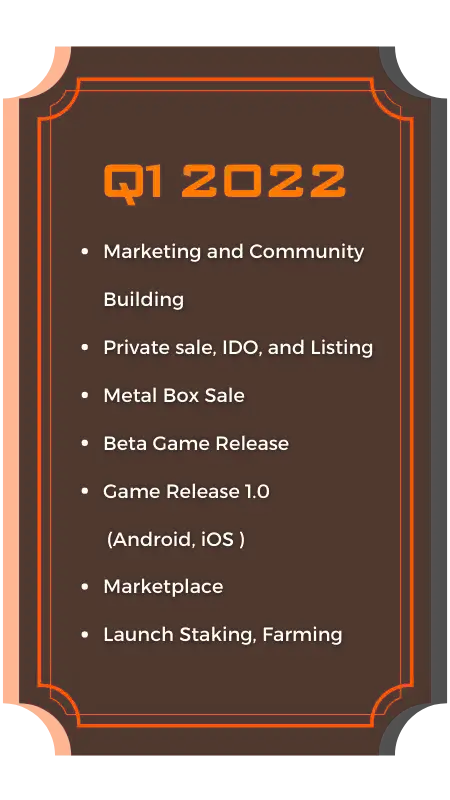
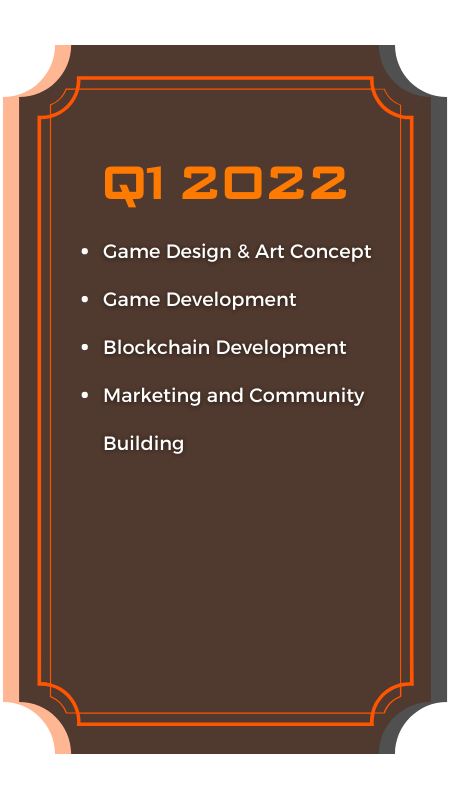
.

diff --git a/components/TEAM/index.js b/components/TEAM/index.js
@@ -37,37 +37,6 @@ function Advisors(){
                 </div>
                 <div className={style.AdvisorsWrapperTopItem} data-aos="zoom-in-up" data-aos-once="true" data-aos-delay="200">
                     <div className={style.AdvisorsWrapperTopItemTop}>
-                        <img src={urlImgHO} alt=""/>
-                    </div>
-                    <div className={style.AdvisorsWrapperTopItemBottom}>
-                        <div className={style.name}>
-                            <h5>Ho Le</h5>
-                        </div>
-                        <div className={style.position}>Chief Operating Officer</div>
-                        <div className={style.background}>
-                        Founder of Nuca Streaming Entertainment<br></br><br></br>
-                        Founder of Nuca<br></br><br></br>
-                        4+ years of experience in software engineering at top software companies in Vietnam: Sunshine Tech, Plustus Fintech, Transaction Technologies, Shopiness, SPLUS-SOFTWARE</div>
-                    </div>
-                </div>
-                <div className={style.AdvisorsWrapperTopItem} data-aos="zoom-in-up" data-aos-once="true" data-aos-delay="200">
-                    <div className={style.AdvisorsWrapperTopItemTop}>
-                        <img src={urlImgTAN} alt=""/>
-                    </div>
-                    <div className={style.AdvisorsWrapperTopItemBottom}>
-                        <div className={style.name}>
-                            <h5>Tony Pham</h5>
-                        </div>
-                        <div className={style.position}>Chief Technology Officer</div>
-                        <div className={style.background}>
-                        Chief Technology Officer of Nuca<br></br><br></br>
-                        Chief Technology Officer of Nuca Streaming Entertainment<br></br><br></br>
-                        3+ years experience as Full-stack Developer in Transaction Technologies for the stock market<br></br><br></br>
-                        2+ years experience as Blockchain Developer</div>
-                    </div>
-                </div>
-                <div className={style.AdvisorsWrapperTopItem} data-aos="zoom-in-up" data-aos-once="true" data-aos-delay="200">
-                    <div className={style.AdvisorsWrapperTopItemTop}>
                         <img src={urlImgDUONG} alt=""/>
                     </div>
                     <div className={style.AdvisorsWrapperTopItemBottom}>

diff --git a/components/tokenomics/index.js b/components/tokenomics/index.js
@@ -17,16 +17,19 @@ function Tokenomics(){
                         {/* <div className={style.tokenomicsWrapperContentTitle}>
                             TOKENOMICS <span>DISTRUBUTION</span>
                         </div> */}
-                        <p>Total Supply: <span>200,000,000 $MTG</span> </p>
+                        <p>Total Supply: <span>400,000,000 $MTG</span> </p>
                         <ul className={style.tokenomicsWrapperContentList}>
-                            <li><span>Private Round:</span><span>14%</span></li>
-                            <li><span>Public Round:</span><span>1%</span></li>
-                            <li><span>Team:</span><span>15%</span></li>
-                            <li><span>Advisors & Partners:</span><span>7%</span></li>
-                            <li><span>Liquidity:</span><span>10%</span></li>
-                            <li><span>Marketing:</span><span>14%</span></li>
-                            <li><span>Ecosystem:</span><span>39%</span></li>
-                            <li><p>(including Staking,Treasure)</p></li>
+                            <li><span>Private sale:</span><span>14%</span></li>
+                            <li><span>Public sale:</span><span>2%</span></li>
+                            <li><span>Treasury:</span><span>10%</span></li>
+                            <li><span>Play to earn:</span><span>28.5%</span></li>
+                            <li><span>Marketing & Ecosystem:</span><span>11%</span></li>
+                            <li><span>Team:</span><span>20%</span></li>
+                            <li><span>Advisors & Partners:</span><span>4%</span></li>
+                            <li><span>Liquidity:</span><span>5%</span></li>
+                            <li><span>Airdrop:</span><span>0.5%</span></li>
+                            <li><span>Reserve:</span><span>5%</span></li>
+                            {/* <li><p>(including Staking,Treasure)</p></li> */}
                             
                         </ul>
                         {/* <a href="#" className={clsx('btn btnPrimary',style.button)} target="_blank" rel="noopener noreferrer">Read More</a> */}

diff --git a/components/Technology/index.js b/components/Technology/index.js
@@ -1,0 +1,24 @@
+const logo1 = '/assets/chainlink.webp'
+const title = '/assets/TECH.webp'
+const binance = '/assets/binance-smart-chain.webp'
+const Unity = '/assets/Unity_Technologies.webp'
+import style from './Technology.module.scss'
+
+function Technology(){
+    return(
+    <section className={style.technologys} id='partners'>
+        <div className="container">
+            <div className={style.technologystitle}>
+                        <img src={title} alt=""/>
+            </div>
+            <div className={style.technologysWrapper} data-aos="flip-up" data-aos-once="true" data-aos-delay="300">
+                <img src={logo1} alt=""/>
+                <img src={binance} alt=""/>
+                <img src={Unity} alt=""/>
+             
+            </div>
+        </div>
+    </section>
+    )
+}
+export default Technology

diff --git a/components/Technology/Technology.module.scss b/components/Technology/Technology.module.scss
@@ -1,0 +1,38 @@
+
+.technologys {
+    & .container {
+        max-width: 1000px;
+    }
+    &title{
+        top: 80px;
+        width: 40%;
+        margin: auto;
+        margin-bottom: 4%;
+    }
+    &Wrapper {
+        display: flex;
+        flex-wrap: wrap;
+        justify-content: center;
+        margin-bottom: 100px;
+        align-items: center;
+        & * {
+            width: 25%;
+            margin: 20px calc(25% / 6);
+        }
+    }
+}
+@media screen and (max-width:600px) {
+    .technologys {
+        &title{
+            top: 80px;
+            width: 80%;
+            margin: auto;
+            margin-bottom: 4%;
+        }
+    &Wrapper {
+        & * {
+            width: 60%;
+        }
+    }
+    }
+}

diff --git a/components/roadmap/index.js b/components/roadmap/index.js
@@ -2,10 +2,10 @@
 import style from './roadmap.module.scss'
 import clsx from 'clsx'
 const urlTitle = '/assets/Roadmap_Metagunner.webp'
-const urlItem1 = '/assets/Q4_2021_Metagunner.webp'
-const urlItem2 = '/assets/Q1_2022_Metagunner.webp'
-const urlItem3 = '/assets/Q2_2022_Metagunner.webp'
-const urlItem4 = '/assets/Q3_2022_Metagunner.webp'
+const urlItem1 = '/assets/Q1_2022_Metagunner.webp'
+const urlItem2 = '/assets/Q2_2022_Metagunner.webp'
+const urlItem3 = '/assets/Q3_2022_Metagunner.webp'
+const urlItem4 = '/assets/Q4_2022_Metagunner.webp'
 
 function Roadmap(){
     return(

diff --git a/pages/index.js b/pages/index.js
@@ -10,6 +10,8 @@ import Roadmap from "../components/roadmap";
 import Tokenomics from "../components/tokenomics";
 import TEAM from "../components/TEAM";
 import Partners from "../components/partners";
+import Technology from "../components/Technology";
+
 // import {
 //   Vidwrapper,
 //   About,
@@ -55,7 +57,8 @@ function Home() {
       <Roadmap />
       <Tokenomics />
       <TEAM />
-      <Partners />
+      {/* <Partners /> */}
+      <Technology />
       <Footer />
     </Layout>
   );
